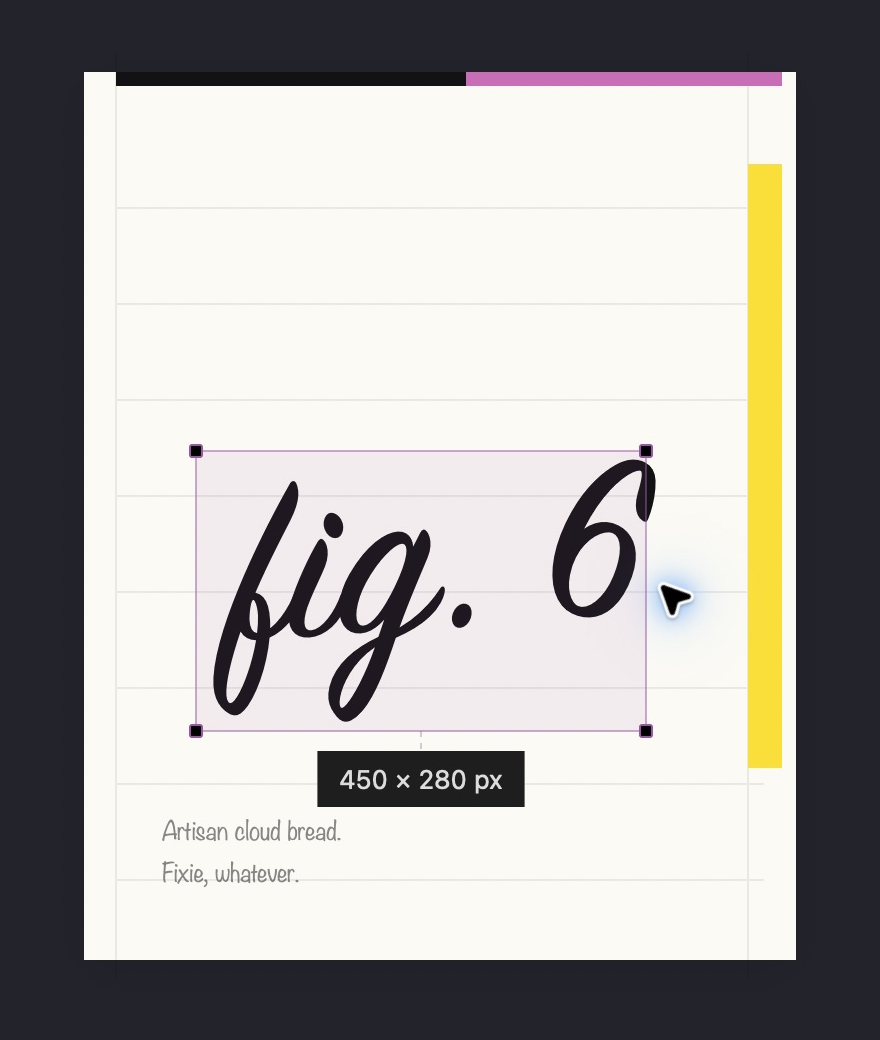
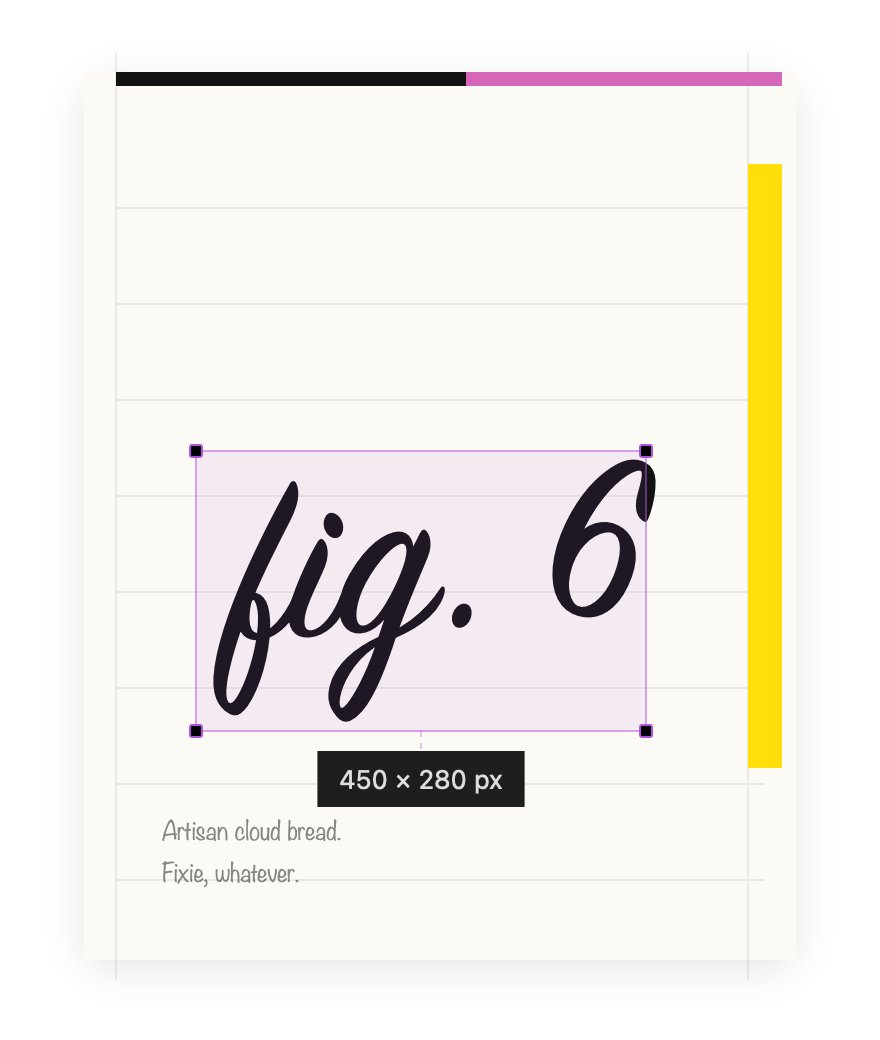
Remove baked-in cursor from website measurement animation

diff --git a/Scripts/render-native-hover.swift b/Scripts/render-native-hover.swift
@@ -1,5 +1,5 @@
 #!/usr/bin/env swift
-// Render an offscreen fixture with the app's unmodified MeasurementView and edge detector.
+// Render every drawing-demo frame with the app's unmodified MeasurementView and edge detector.
 // This does not launch, capture, or send input to any application.
 import Foundation
 let root = URL(fileURLWithPath: FileManager.default.currentDirectoryPath)
@@ -26,28 +26,39 @@ let verifyOnly = CommandLine.arguments.contains("--verify-only")
 try MainActor.assumeIsolated {
     // Registered defaults belong only to this fixture process; the installed app's preferences are untouched.
     UserDefaults.standard.register(defaults: MeasurementPreferences.defaults)
-    UserDefaults.standard.register(defaults: [PreferenceKey.unit: "px", PreferenceKey.tolerance: 36])
+    UserDefaults.standard.register(defaults: [
+        PreferenceKey.unit: "px", PreferenceKey.tolerance: 36,
+        PreferenceKey.overlayColor: "AF52DEFF", PreferenceKey.guideColor: "FF9F0AFF",
+        PreferenceKey.autoContrast: false, PreferenceKey.aspectArea: false,
+        PreferenceKey.aspectDistance: false, PreferenceKey.animations: false
+    ])
     let data = try Data(contentsOf: root.appendingPathComponent("Assets/Previews/Schnaps-Drawing-Subject.png"))
     let image = NSBitmapImageRep(data: data)!.cgImage!
     let snapshot = ScreenSnapshot(image: image, pixels: PixelBuffer(image: image)!, scaleX: 2, scaleY: 2)
-    let view = MeasurementView(frame: CGRect(x: 0, y: 0, width: 440, height: 520), scale: 2, snapshot: snapshot, mode: .findDimensions)
-    view.appearance = NSAppearance(named: .darkAqua)
-    for (name, point) in [("01-hover", CGPoint(x: 180, y: 370)), ("02-hover", CGPoint(x: 350, y: 280))] {
-        let event = NSEvent.mouseEvent(with: .mouseMoved, location: point, modifierFlags: [], timestamp: 0, windowNumber: 0, context: nil, eventNumber: 0, clickCount: 0, pressure: 0)!
-        view.mouseMoved(with: event)
+    @MainActor func makeView(_ mode: MeasurementMode) -> MeasurementView {
+        let view = MeasurementView(frame: CGRect(x: 0, y: 0, width: 440, height: 520), scale: 2, snapshot: snapshot, mode: mode)
+        view.appearance = NSAppearance(named: .darkAqua)
+        return view
+    }
+    @MainActor func render(_ view: MeasurementView, named name: String) throws {
         let bitmap = NSBitmapImageRep(bitmapDataPlanes: nil, pixelsWide: 880, pixelsHigh: 1040, bitsPerSample: 8, samplesPerPixel: 4, hasAlpha: true, isPlanar: false, colorSpaceName: .deviceRGB, bytesPerRow: 880 * 4, bitsPerPixel: 32)!
         bitmap.size = view.bounds.size
         view.effectiveAppearance.performAsCurrentDrawingAppearance {
             view.cacheDisplay(in: view.bounds, to: bitmap)
-            NSGraphicsContext.saveGraphicsState()
-            NSGraphicsContext.current = NSGraphicsContext(bitmapImageRep: bitmap)
-            let cursor = NSCursor.crosshair
-            cursor.image.draw(at: CGPoint(x: point.x - cursor.hotSpot.x, y: point.y - cursor.hotSpot.y), from: .zero, operation: .sourceOver, fraction: 1)
-            NSGraphicsContext.restoreGraphicsState()
         }
+        // The clean subject and native view contain no captured pointer or cursor halo.
+        // Do not composite NSCursor artwork onto the export.
         let output = root.appendingPathComponent(verifyOnly ? "build/NativeHover/\(name).png" : "website/media-source/drawing-frames/\(name).png")
         try bitmap.representation(using: .png, properties: [:])!.write(to: output)
         print("\(name): \(view.accessibilityValue() ?? "")")
+    }
+    @MainActor func mouse(_ type: NSEvent.EventType, at point: CGPoint) -> NSEvent {
+        NSEvent.mouseEvent(with: type, location: CGPoint(x: point.x, y: 520 - point.y), modifierFlags: [], timestamp: 0, windowNumber: 0, context: nil, eventNumber: 0, clickCount: 1, pressure: 0)!
+    }
+    let view = makeView(.findDimensions)
+    for (name, point) in [("01-hover", CGPoint(x: 180, y: 150)), ("02-hover", CGPoint(x: 350, y: 240))] {
+        view.mouseMoved(with: mouse(.mouseMoved, at: point))
+        try render(view, named: name)
     }
     // Unit-test the actual canvas key handler without sending input to any application.
     var captures: [(CGRect,Bool,Bool)] = []
@@ -60,6 +71,25 @@ try MainActor.assumeIsolated {
     precondition(captures.count == 2 && captures[0].1 && !captures[0].2 && !captures[1].1 && captures[1].2)
     precondition(captures.allSatisfy { $0.0.width > 0 && $0.0.height > 0 })
     print("Native screenshot shortcuts: C copies; Option-P saves with toggled padding")
+
+    let area = makeView(.area)
+    try render(area, named: "00-base")
+    area.mouseDown(with: mouse(.leftMouseDown, at: CGPoint(x: 98, y: 225.5)))
+    for (name, point) in [("03-small", CGPoint(x: 158, y: 270)),
+                          ("03-medium", CGPoint(x: 240, y: 320)),
+                          ("04-area", CGPoint(x: 323, y: 365.5))] {
+        area.mouseDragged(with: mouse(.leftMouseDragged, at: point))
+        if name == "04-area" { area.mouseUp(with: mouse(.leftMouseUp, at: point)) }
+        try render(area, named: name)
+    }
+    precondition(area.accessibilityValue() as? String == "450 × 280 px")
+    let pin = NSEvent.keyEvent(with: .keyDown, location: .zero, modifierFlags: [], timestamp: 0, windowNumber: 0,
+                              context: nil, characters: " ", charactersIgnoringModifiers: " ", isARepeat: false, keyCode: 49)!
+    area.keyDown(with: pin)
+    precondition(area.pinned == [CGRect(x: 98, y: 225.5, width: 225, height: 140)])
+    // Export the settled pin state after the app's brief action feedback disappears.
+    RunLoop.current.run(until: Date().addingTimeInterval(2.1))
+    try render(area, named: "05-pinned")
 }
 """#
 try fixture.write(to: build.appendingPathComponent("main.swift"), atomically: true, encoding: .utf8)

diff --git a/Scripts/export-drawing-demo.swift b/Scripts/export-drawing-demo.swift
@@ -1,5 +1,5 @@
 #!/usr/bin/env swift
-// Encode native Schnaps hover renders and cropped app captures. No measurement UI is drawn by this encoder.
+// Encode native Schnaps view renders. No measurement UI is drawn by this encoder.
 import AppKit
 import Foundation
 
@@ -11,8 +11,8 @@ let staging = root.appendingPathComponent("build/DrawingDemoExport")
 try FileManager.default.createDirectory(at: staging, withIntermediateDirectories: true)
 let frames = try JSONDecoder().decode([DemoFrame].self, from: Data(contentsOf: source.appendingPathComponent("timeline.json")))
 
-// Remove only the plain, edge-connected capture backdrop. Keep the actual app,
-// cursor and measurement pixels, including antialiasing at the window boundary.
+// Remove only the plain, edge-connected backdrop. Preserve native measurement
+// pixels and antialiasing at the drawing boundary. Source renders have no cursor.
 func clearBackdrop(_ image: NSBitmapImageRep) -> NSBitmapImageRep {
     let w = image.pixelsWide, h = image.pixelsHigh
     let result = NSBitmapImageRep(bitmapDataPlanes: nil, pixelsWide: w, pixelsHigh: h,

diff --git a/website/dist/index.html b/website/dist/index.html
@@ -43,7 +43,7 @@
       </section>
       <div class="showcase">
         <figure class="app-demo">
-          <img id="demo" src="/assets/schnaps-drawing-demo-poster.webp?v=live-lines-2" data-animation="/assets/schnaps-drawing-demo.webp?v=live-lines-2" data-poster="/assets/schnaps-drawing-demo-poster.webp?v=live-lines-2" width="440" height="520" alt="Schnaps in use over an editorial drawing: real hover distances, resizing an area measurement, and pinning the dimensions." />
+          <img id="demo" src="/assets/schnaps-drawing-demo-poster.webp?v=cursor-free-3" data-animation="/assets/schnaps-drawing-demo.webp?v=cursor-free-3" data-poster="/assets/schnaps-drawing-demo-poster.webp?v=cursor-free-3" width="440" height="520" alt="Schnaps in use over an editorial drawing: real hover distances, resizing an area measurement, and pinning the dimensions." />
           <figcaption>Hover. Measure. Pin. Copy.<button id="demo-toggle" class="demo-toggle" type="button" hidden>Play</button></figcaption>
         </figure>
         <section class="features" aria-label="Measurement tools">

diff --git a/website/README.md b/website/README.md
@@ -12,13 +12,11 @@ Deploy from `website/` with `npx wrangler deploy`, using the authenticated Cloud
 
 ## Demo and branding
 
-The homepage animation combines native Schnaps hover renders with genuine Schnaps 0.6.2 captures over an editorial drawing. Hover frames use the app’s unmodified `MeasurementView`, snapshot model, and edge detector, rendered offscreen by `Scripts/render-native-hover.swift`; High tolerance skips faint paper rules so both axes are visible. The area resizing and pinning frames are app captures. The encoder only removes the edge-connected desktop backdrop. No video player or animation library is loaded.
+The homepage animation renders the editorial drawing through the app’s unmodified `MeasurementView`, snapshot model, and edge detector. `Scripts/render-native-hover.swift` replays pointer movement, an area drag, and Space-to-pin directly into an offscreen native view. It does not launch or send input to another application. Every frame starts from the clean drawing source; no screen-capture cursor or cursor artwork is composited into the animation. High tolerance skips faint paper rules so both distance axes remain visible.
 
-Run `swift Scripts/render-native-hover.swift` to regenerate the live hover frames from the app source. Then run `swift Scripts/export-drawing-demo.swift` from the repository root to encode the cropped captures in `website/media-source/drawing-frames/` using `timeline.json`. The animation and live Find Dimensions poster are transparent 880 × 1040 px WebPs displayed at no more than 400 CSS pixels wide. Pause/play, reduced-motion still behavior, and a no-JavaScript poster remain available. WebP tools (`img2webp`, `cwebp`) are required.
+Run `swift Scripts/render-native-hover.swift` to regenerate all seven source frames. Then run `swift Scripts/export-drawing-demo.swift` to encode them using `website/media-source/drawing-frames/timeline.json`. The exporter only clears the edge-connected backdrop and encodes WebP; it does not draw measurement UI. The transparent animation and Find Dimensions poster remain 880 × 1040 px, displayed at no more than 400 CSS pixels wide. Pause/play, reduced-motion still behavior, and a no-JavaScript poster remain available. WebP tools (`img2webp`, `cwebp`) are required.
 
-The drawing source is `Assets/Previews/Schnaps-Drawing-Subject.png`, generated with `swift Scripts/export-illustrated-demo.swift --subject-only`. The earlier illustrated walkthrough and its exporter are retained as design source, but the homepage uses real app captures.
-
-The earlier genuine Calculator captures remain in `media-source/demo-frames/` with `Scripts/export-demo.swift`. Their original WebP assets are retained as inputs for existing product media exports.
+The clean drawing is `Assets/Previews/Schnaps-Drawing-Subject.png`, generated with `swift Scripts/export-illustrated-demo.swift --subject-only`. Earlier Calculator captures remain in `media-source/demo-frames/` as design sources for existing product media exports.
 
 The logo is the approved transparent liquid-glass bottle in `Assets/Artwork/Schnaps-Liquid-Glass.png`. `swift Scripts/export-icon.swift` updates the website PNG, transparent favicon, and app icon together.
 
